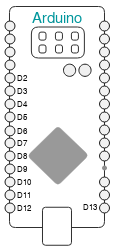
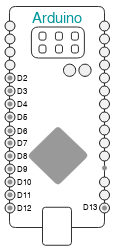
-empty-

diff --git a/data/global/arduino/Arduino.js b/data/global/arduino/Arduino.js
@@ -16,73 +16,73 @@ var arduino_Arduino = CircuitFigure.extend({
      this._super( $.extend({stroke:0, bgColor:null, width:104.51462500000162,height:240.2584999999999},attr), setter, getter);
      var port;
      // port_d2
-     port = this.createPort("hybrid", new draw2d.layout.locator.XYRelPortLocator({x: 4.784019461391095, y: 30.383940630612457 }));
+     port = this.addPort(new DecoratedHybridPort(), new draw2d.layout.locator.XYRelPortLocator({x: 4.784019461391095, y: 30.383940630612457 }));
      port.setConnectionDirection(3);
      port.setBackgroundColor("#37B1DE");
      port.setName("port_d2");
      port.setMaxFanOut(20);
      // port_d3
-     port = this.createPort("hybrid", new draw2d.layout.locator.XYRelPortLocator({x: 4.784019461391095, y: 35.744521005500324 }));
+     port = this.addPort(new DecoratedHybridPort(), new draw2d.layout.locator.XYRelPortLocator({x: 4.784019461391095, y: 35.744521005500324 }));
      port.setConnectionDirection(3);
      port.setBackgroundColor("#37B1DE");
      port.setName("port_d3");
      port.setMaxFanOut(20);
      // port_d4
-     port = this.createPort("hybrid", new draw2d.layout.locator.XYRelPortLocator({x: 4.784019461391095, y: 41.20561811548813 }));
+     port = this.addPort(new DecoratedHybridPort(), new draw2d.layout.locator.XYRelPortLocator({x: 4.784019461391095, y: 41.20561811548813 }));
      port.setConnectionDirection(3);
      port.setBackgroundColor("#37B1DE");
      port.setName("port_d4");
      port.setMaxFanOut(20);
      // port_d5
-     port = this.createPort("hybrid", new draw2d.layout.locator.XYRelPortLocator({x: 4.784019461391095, y: 46.61645685792596 }));
+     port = this.addPort(new DecoratedHybridPort(), new draw2d.layout.locator.XYRelPortLocator({x: 4.784019461391095, y: 46.61645685792596 }));
      port.setConnectionDirection(3);
      port.setBackgroundColor("#37B1DE");
      port.setName("port_d5");
      port.setMaxFanOut(20);
      // port_d6
-     port = this.createPort("hybrid", new draw2d.layout.locator.XYRelPortLocator({x: 4.784019461391095, y: 52.41179812576779 }));
+     port = this.addPort(new DecoratedHybridPort(), new draw2d.layout.locator.XYRelPortLocator({x: 4.784019461391095, y: 52.41179812576779 }));
      port.setConnectionDirection(3);
      port.setBackgroundColor("#37B1DE");
      port.setName("port_d6");
      port.setMaxFanOut(20);
      // port_d7
-     port = this.createPort("hybrid", new draw2d.layout.locator.XYRelPortLocator({x: 4.784019461391095, y: 57.43813434280163 }));
+     port = this.addPort(new DecoratedHybridPort(), new draw2d.layout.locator.XYRelPortLocator({x: 4.784019461391095, y: 57.43813434280163 }));
      port.setConnectionDirection(3);
      port.setBackgroundColor("#37B1DE");
      port.setName("port_d7");
      port.setMaxFanOut(20);
      // port_d8
-     port = this.createPort("hybrid", new draw2d.layout.locator.XYRelPortLocator({x: 4.784019461391095, y: 62.848973085239464 }));
+     port = this.addPort(new DecoratedHybridPort(), new draw2d.layout.locator.XYRelPortLocator({x: 4.784019461391095, y: 62.848973085239464 }));
      port.setConnectionDirection(3);
      port.setBackgroundColor("#37B1DE");
      port.setName("port_d8");
      port.setMaxFanOut(20);
      // port_d9
-     port = this.createPort("hybrid", new draw2d.layout.locator.XYRelPortLocator({x: 4.784019461391095, y: 68.2598118276773 }));
+     port = this.addPort(new DecoratedHybridPort(), new draw2d.layout.locator.XYRelPortLocator({x: 4.784019461391095, y: 68.2598118276773 }));
      port.setConnectionDirection(3);
      port.setBackgroundColor("#37B1DE");
      port.setName("port_d9");
      port.setMaxFanOut(20);
      // port_d10
-     port = this.createPort("hybrid", new draw2d.layout.locator.XYRelPortLocator({x: 4.784019461391095, y: 73.67065057011513 }));
+     port = this.addPort(new DecoratedHybridPort(), new draw2d.layout.locator.XYRelPortLocator({x: 4.784019461391095, y: 73.67065057011513 }));
      port.setConnectionDirection(3);
      port.setBackgroundColor("#37B1DE");
      port.setName("port_d10");
      port.setMaxFanOut(20);
      // port_d11
-     port = this.createPort("hybrid", new draw2d.layout.locator.XYRelPortLocator({x: 4.784019461391095, y: 79.031230945003 }));
+     port = this.addPort(new DecoratedHybridPort(), new draw2d.layout.locator.XYRelPortLocator({x: 4.784019461391095, y: 79.031230945003 }));
      port.setConnectionDirection(3);
      port.setBackgroundColor("#37B1DE");
      port.setName("port_d11");
      port.setMaxFanOut(20);
      // port_d12
-     port = this.createPort("hybrid", new draw2d.layout.locator.XYRelPortLocator({x: 4.784019461391095, y: 84.49232805499081 }));
+     port = this.addPort(new DecoratedHybridPort(), new draw2d.layout.locator.XYRelPortLocator({x: 4.784019461391095, y: 84.49232805499081 }));
      port.setConnectionDirection(3);
      port.setBackgroundColor("#37B1DE");
      port.setName("port_d12");
      port.setMaxFanOut(20);
      // port_d13
-     port = this.createPort("hybrid", new draw2d.layout.locator.XYRelPortLocator({x: 95.2159805386089, y: 84.49232805499081 }));
+     port = this.addPort(new DecoratedHybridPort(), new draw2d.layout.locator.XYRelPortLocator({x: 95.2159805386089, y: 84.49232805499081 }));
      port.setConnectionDirection(1);
      port.setBackgroundColor("#37B1DE");
      port.setName("port_d13");
